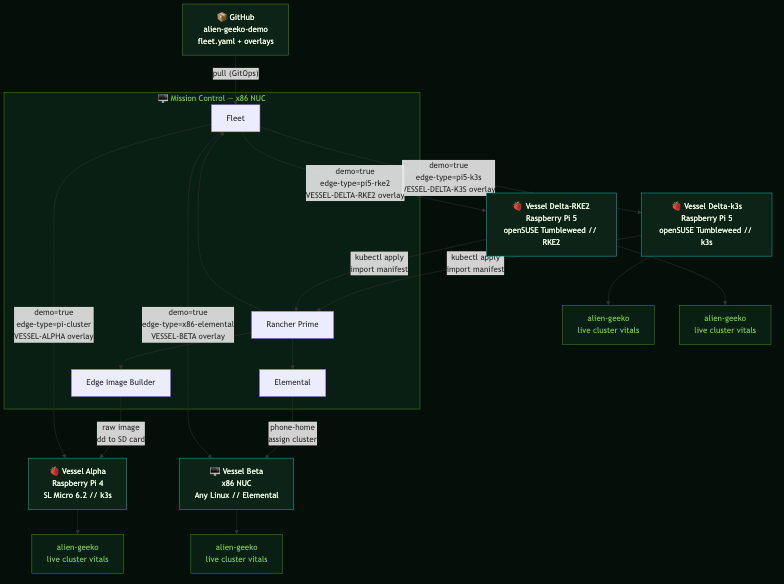
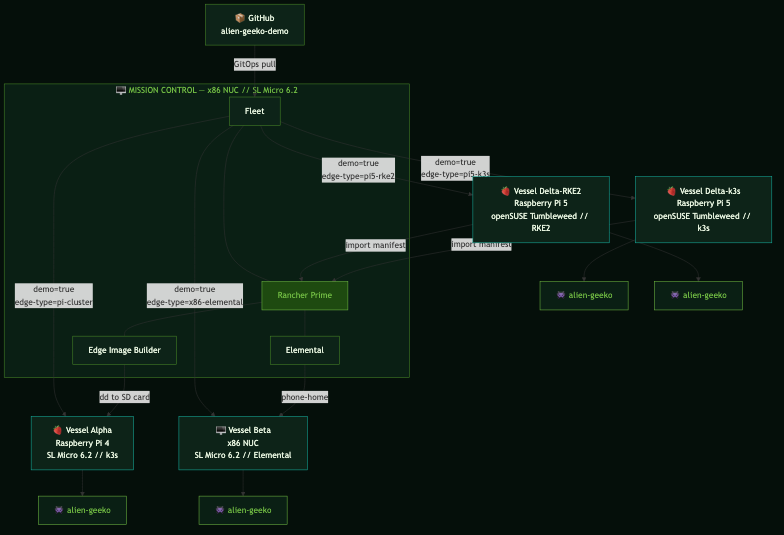
Update x86 NUCs to SL Micro 6.2, simplify architecture diagram

diff --git a/docs/index.html b/docs/index.html
@@ -396,7 +396,7 @@
         </div>
         <div class="fleet-row">
           <div class="cell vessel">Mission Control</div>
-          <div class="cell">x86 NUC</div>
+          <div class="cell">x86 NUC // SL Micro 6.2</div>
           <div class="cell method-man">Manual — Rancher + Fleet + Elemental</div>
         </div>
         <div class="fleet-row">
@@ -406,7 +406,7 @@
         </div>
         <div class="fleet-row">
           <div class="cell vessel">Vessel Beta</div>
-          <div class="cell">x86 NUC // Any Linux</div>
+          <div class="cell">x86 NUC // SL Micro 6.2</div>
           <div class="cell method-ele">Elemental — phones home, self-registers</div>
         </div>
         <div class="fleet-row">

diff --git a/README.md b/README.md
@@ -26,12 +26,12 @@ No persistent storage. No external dependencies at runtime. Just a service accou
 
 | Role | Hardware | OS | Provisioning |
 |---|---|---|---|
-| Mission Control | x86 NUC | Any Linux | Manual — runs k3s + Rancher + Fleet + Elemental |
+| Mission Control | x86 NUC | SL Micro 6.2 | Manual — runs k3s + Rancher + Fleet + Elemental |
 | Vessel Alpha | Raspberry Pi 4 | SL Micro 6.2 | EIB (Edge Image Builder) |
-| Vessel Beta | x86 NUC | Any Linux | Elemental (phone-home) |
+| Vessel Beta | x86 NUC | SL Micro 6.2 | Elemental (phone-home) |
 | Vessel Delta-k3s | Raspberry Pi 5 | openSUSE Tumbleweed | Rancher Import + k3s |
 | Vessel Delta-RKE2 | Raspberry Pi 5 | openSUSE Tumbleweed | Rancher Import + RKE2 |
-| Standby | x86 Spare NUC | Any | EIB or Import |
+| Standby | x86 Spare NUC | SL Micro 6.2 | EIB or Import |
 
 > **Note:** Raspberry Pi 5 (BCM2712) is NOT supported in SL Micro 6.2. Pi 5 boards run openSUSE Tumbleweed with k3s or RKE2 and are imported into Rancher. SL Micro 6.3 (planned late 2026) will add Pi 5 support.
 
@@ -321,7 +321,7 @@ diskutil eject /dev/diskN
 
 ## Elemental — Vessel Beta (x86 NUC)
 
-Vessel Beta is an x86 NUC that uses Elemental for phone-home onboarding — no manual cluster setup needed.
+Vessel Beta is an x86 NUC running SL Micro 6.2 that uses Elemental for phone-home onboarding — no manual cluster setup needed.
 
 1. Boot the NUC from an Elemental-enabled ISO or USB image
 2. The node calls back to Rancher automatically on first boot
